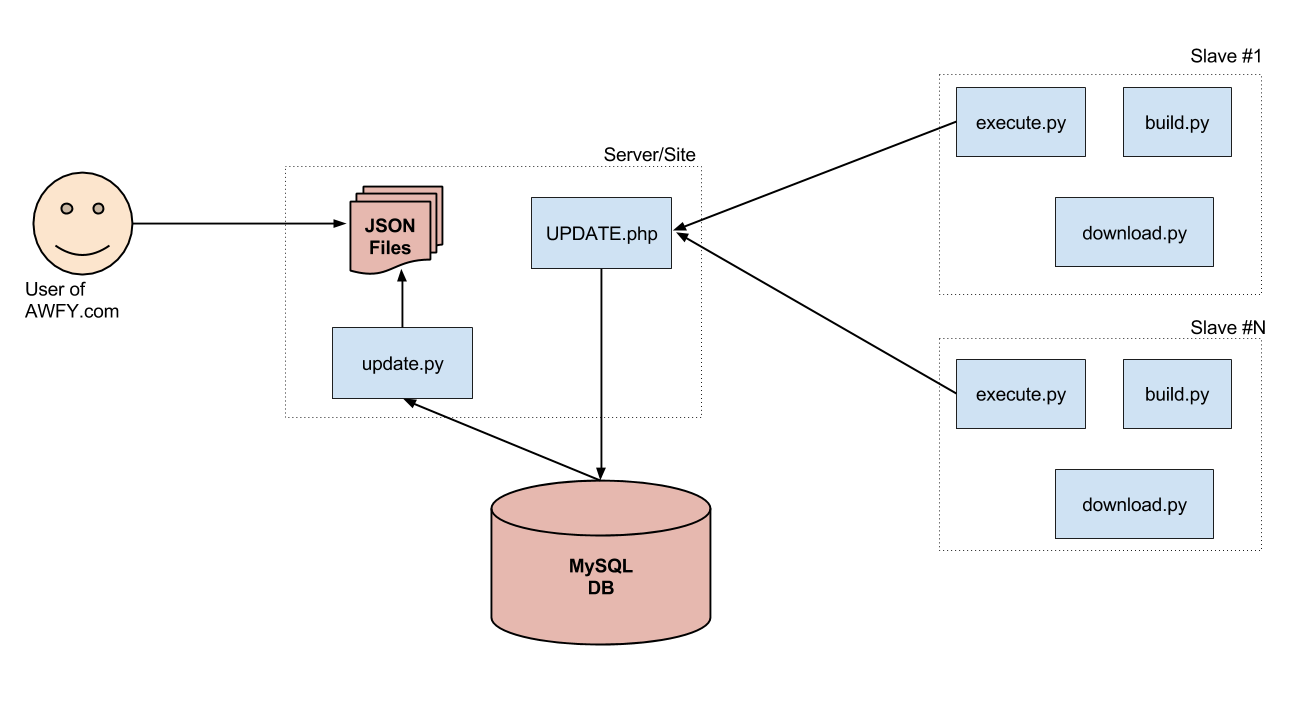
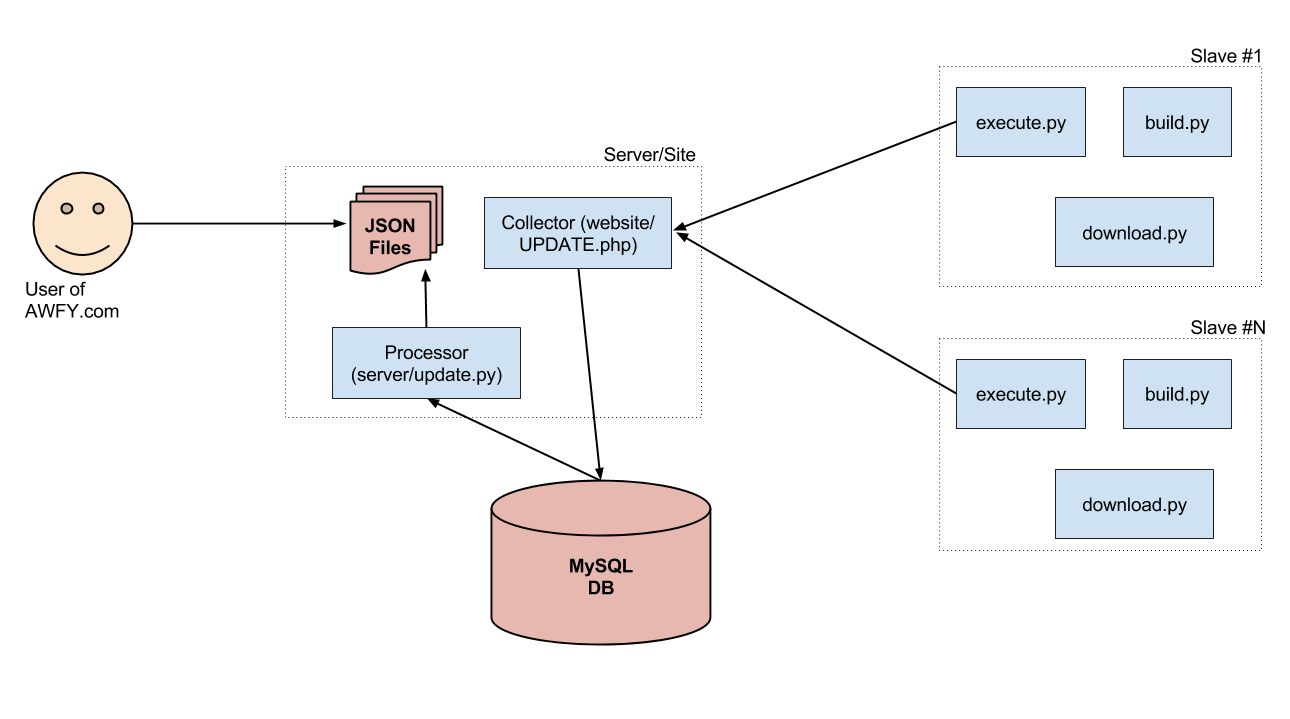
Add SVG for the diagram. Change names to a bit more descriptive ones.

diff --git a/README.md b/README.md
@@ -21,7 +21,12 @@ Keep in mind, most of this documentation is for posterity. AWFY was never intend
 
 System Diagram
 ==============
+<!-- 
+	Image source at https://docs.google.com/drawings/d/1TlzFOMz4oxKYSD_hHqe-fL2wpAA5WwhEq62KJp0TytI/edit?usp=sharing 
+	To edit it, 'make a copy' (from file menu) and edit that. 
+-->
 ![Alt text](/docs/awfy_system_diagram.png "System Diagram")
+
 
 Benchmark locally
 =================
